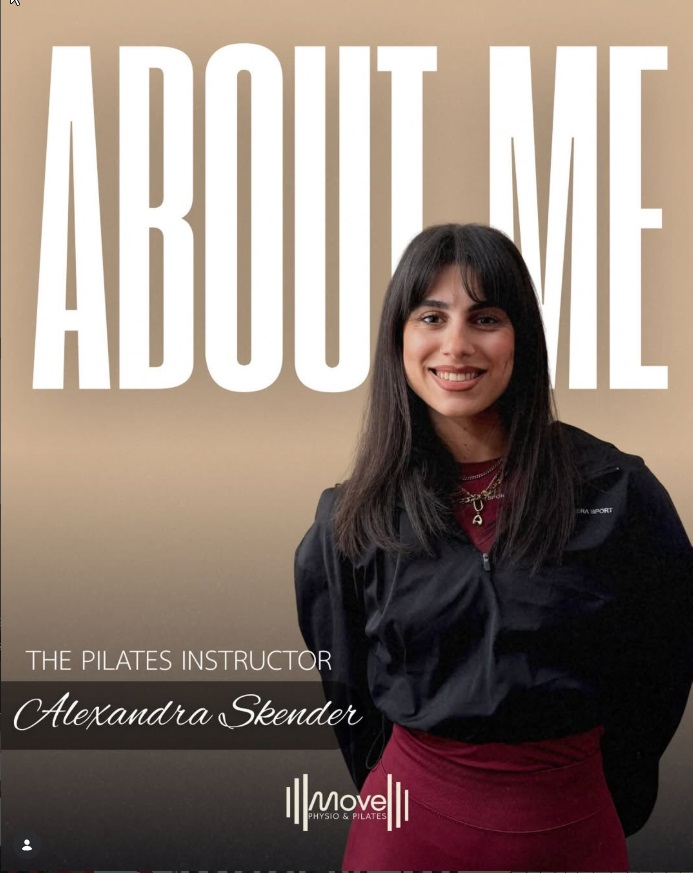
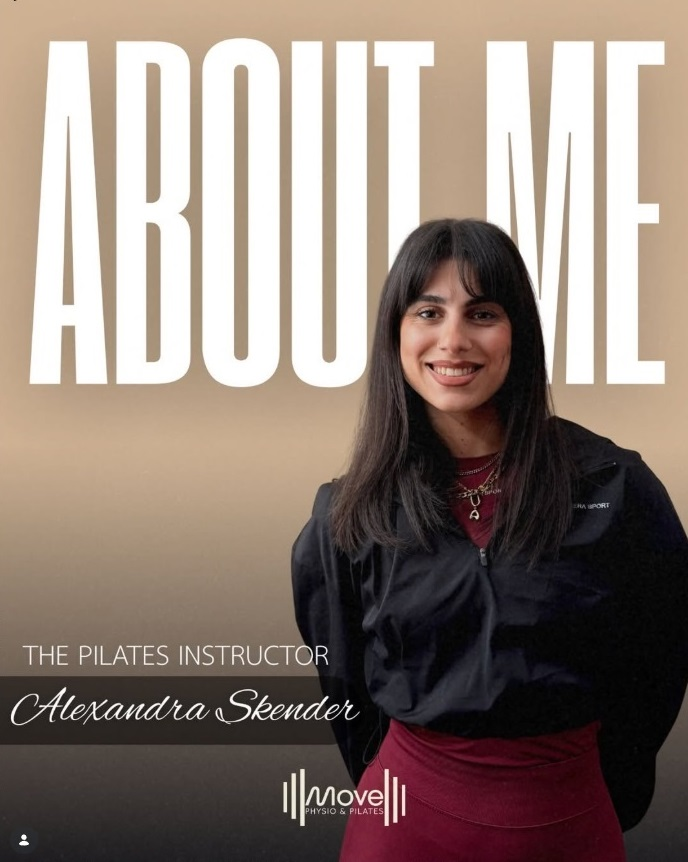
Update image references and correct spelling for Alexandra in app.js

diff --git a/my/src/app.js b/my/src/app.js
@@ -186,10 +186,10 @@ function renderPageContent(pathname) {
             <div class="glass-card p-0 rounded-4 overflow-hidden position-relative">
                <div class="row g-0">
                   <div class="col-sm-4 bg-dark d-flex align-items-stretch justify-content-center order-sm-2">
-                     <img src="/Alexandra.jpg" alt="Alexandra Skenter" class="img-fluid w-100 object-fit-cover" style="min-height: 250px;">
+                     <img src="/Alexandra.jpg" alt="Alexandra Skender" class="img-fluid w-100 object-fit-cover" style="min-height: 250px;">
                   </div>
                   <div class="col-sm-8 p-4 d-flex flex-column justify-content-center order-sm-1 text-sm-end">
-                     <h5 class="text-white fw-bold mb-1">Alexandra Skenter</h5>
+                     <h5 class="text-white fw-bold mb-1">Alexandra Skender</h5>
                      <h6 class="text-accent small mb-3">Clinical Pilates Instructor</h6>
                      <p class="text-subtle small mb-3 lh-lg">Alexandra leads our Pilates programs, blending core strengthening, breath work, and flexible movement patterns to prevent injuries and rehabilitate posture. Her classes re-educate the neuromuscular system for long-term health and stability.</p>
                      <div class="d-flex justify-content-sm-end gap-2">
